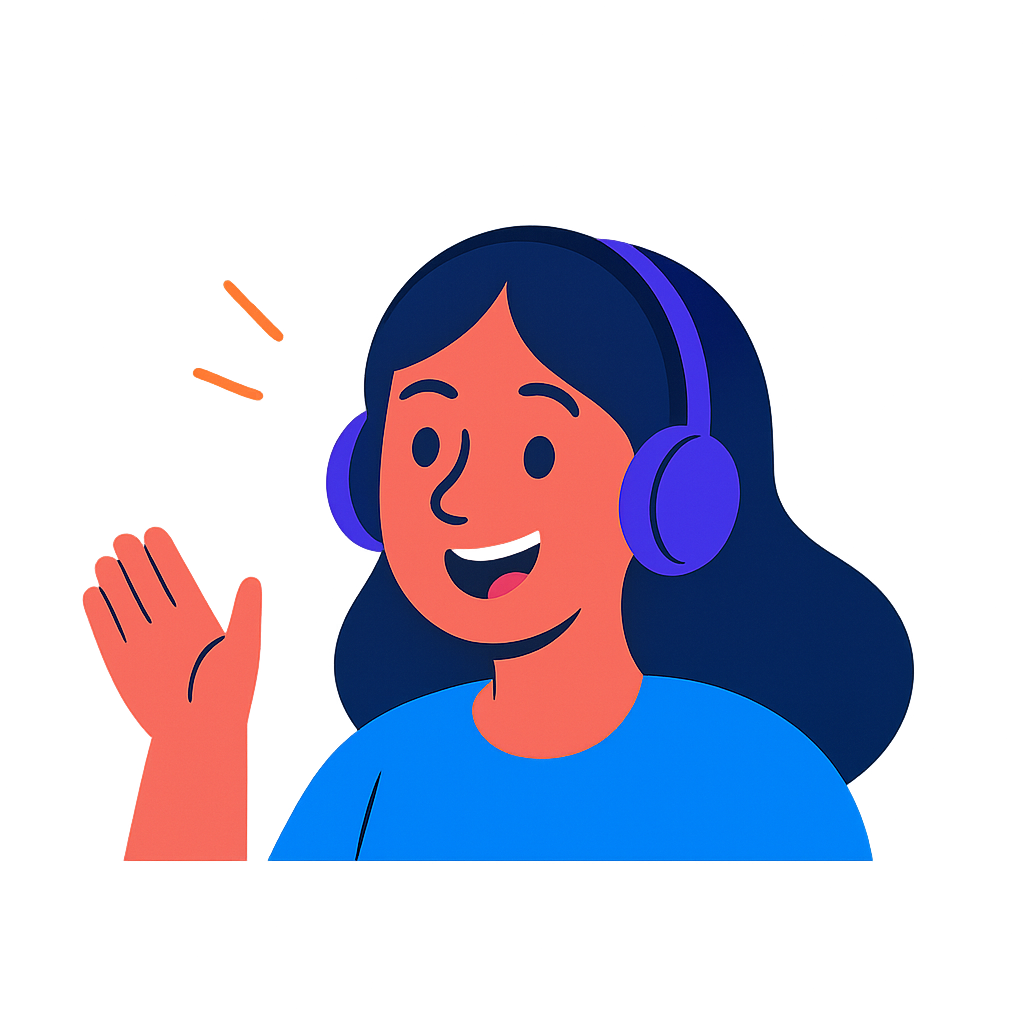
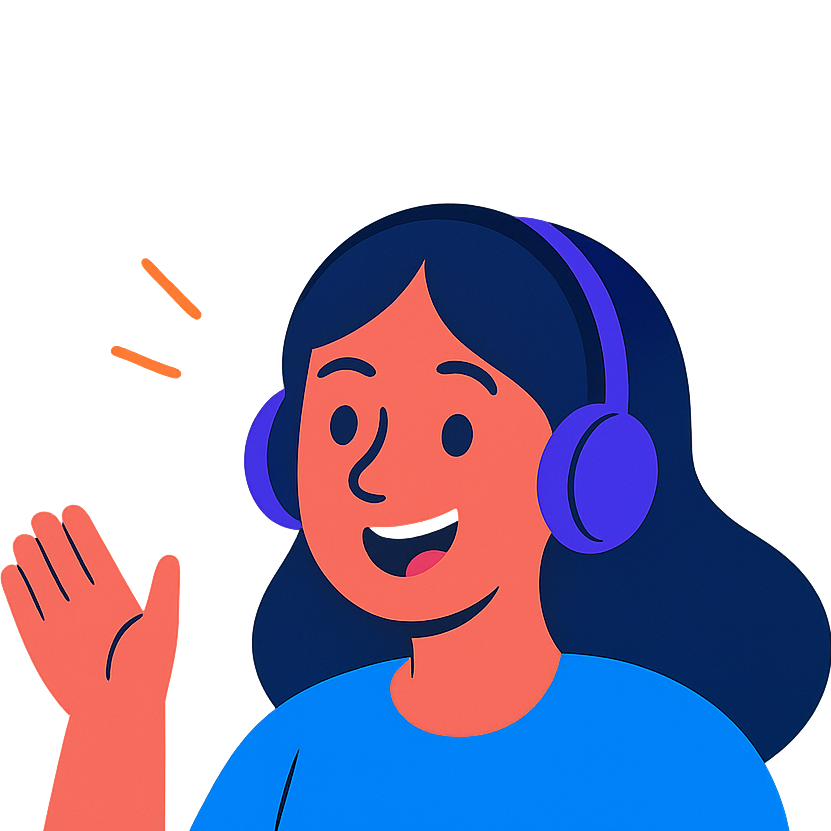
Обновление главной страницы: изменены стили секции героя, добавлены новые разделы с описанием продукта на русском языке, включая преимущества и отзывы пользователей. Исправлены размеры изображений для адаптивного дизайна.

diff --git a/index.html b/index.html
@@ -111,7 +111,7 @@
         /* Hero Section */
         .hero {
             background: linear-gradient(135deg, var(--primary-pink) 0%, var(--primary-blue) 100%);
-            padding: var(--spacing-2xl) var(--spacing-2xl) var(--spacing-3xl) var(--spacing-2xl);
+            padding: var(--spacing-2xl) var(--spacing-2xl) 0 var(--spacing-2xl);
             border-radius: var(--radius-3xl);
             margin-bottom: var(--spacing-2xl);
             color: var(--neutral-white);
@@ -139,7 +139,7 @@
         }
         
         .hero-title {
-            font-size: clamp(3rem, 6vw, 5rem);
+            font-size: clamp(2rem, 4vw, 3rem);
             font-weight: 800;
             line-height: 1.1;
             margin-bottom: var(--spacing-lg);
@@ -167,22 +167,31 @@
         }
         
         .hero-illustration {
-            flex: 0 0 500px;
-            height: 400px;
+            position: absolute;
+            top: 50%;
+            right: var(--spacing-3xl);
+            transform: translateY(-50%);
+            flex: none;
+            width: 450px;
+            height: 360px;
             background: transparent;
             display: flex;
             align-items: flex-end;
             justify-content: center;
-            position: relative;
             overflow: visible;
-            margin-top: var(--spacing-lg);
+            margin: 0;
+            padding: 0;
+            z-index: 2;
         }
         
         .hero-image {
-            width: 450px;
-            height: 360px;
+            width: 100%;
+            height: 100%;
             object-fit: contain;
             object-position: bottom;
+            margin: 0;
+            padding: 0;
+            display: block;
         }
         
         .decorative-waves {
@@ -251,7 +260,7 @@
             display: inline-flex;
             align-items: center;
             gap: var(--spacing-sm);
-            font-size: var(--font-size-h3);
+            font-size: var(--font-size-body);
             font-weight: 700;
             position: absolute;
             top: 0;
@@ -398,6 +407,27 @@
         }
         
         /* Responsive Design */
+        @media (max-width: 900px) {
+            .hero-illustration {
+                width: 320px;
+                height: 220px;
+                right: var(--spacing-xl);
+            }
+        }
+        @media (max-width: 600px) {
+            .hero-illustration {
+                position: static;
+                transform: none;
+                width: 100%;
+                height: auto;
+                margin: 0 auto;
+                justify-content: center;
+            }
+            .hero-image {
+                width: 100%;
+                height: auto;
+            }
+        }
         @media (max-width: 768px) {
             .hero-content {
                 flex-direction: column;
@@ -468,10 +498,11 @@
         <!-- Hero Section -->
         <section class="hero">
             <div class="hero-brand">LingoSwitch</div>
-            <a href="#" class="hero-cta">Get Started</a>
+            <a href="#get-started" class="hero-cta">Get Started</a>
             <div class="hero-content">
                 <div class="hero-text">
-                    <h1 class="hero-title">Learn a New Language Easily</h1>
+                    <h1 class="hero-title">Пополнение словарного запаса без отрыва от работы</h1>
+                    <p class="hero-desc">LingoSwitch интегрируется в привычные Telegram-каналы и плавно заменяет слова на целевом языке, позволяя учить английский на ходу</p>
                 </div>
                 <div class="hero-illustration">
                     <div class="decorative-waves">〰〰</div>
@@ -481,101 +512,90 @@
             </div>
         </section>
 
-        <!-- Main Content Grid -->
-        <div class="grid">
-            <!-- Problem Card -->
-            <div class="card card-problem fade-in">
-                <div class="card-header">
-                    <span class="icon-emoji">😟</span>
-                    Problem
+        <!-- Problem Section -->
+        <section class="card card-problem fade-in">
+            <div class="card-header">
+                <span class="icon-emoji">😟</span>
+                Не хватает времени на учебу?
+            </div>
+            <div class="card-content">
+                <div class="card-title">Ежедневный поток задач и срочных писем оставляет минимум времени на учебу.</div>
+                <p>Традиционные курсы и приложения требуют выделять часы на уроки и отвлекают от работы. Из-за этого новые слова быстро забываются, а уверенность при чтении деловых публикаций на иностранном языке так и не появляется.</p>
+            </div>
+        </section>
+
+        <!-- Solution Section -->
+        <section class="card card-solution fade-in">
+            <div class="card-header">
+                <span class="icon-emoji">💡</span>
+                Учитесь в своем ритме
+            </div>
+            <div class="card-content">
+                <div class="card-title">LingoSwitch превращает каждую статью и новость в Телеграме в интерактивный урок</div>
+                <p>Бот автоматически заменяет часть русских слов на английские, а затем постепенно увеличивает долю «иностранных» фраз. Такой подход обеспечивает запоминание через контекст и ассоциации, без лишних переключений между приложениями.</p>
+            </div>
+        </section>
+
+        <!-- Benefits Section -->
+        <section class="card card-benefits fade-in">
+            <div class="card-header">
+                <span class="icon-emoji">⭐</span>
+                Ваши преимущества
+            </div>
+            <div class="card-content">
+                <ul class="benefits-list">
+                    <li><b>Учиться без лишних усилий</b> — слово попадает в контекст привычного текста, а не в список для зубрёжки</li>
+                    <li><b>Автоматическая замена терминов</b> прямо в сообщениях Telegram</li>
+                    <li><b>Постепенное погружение</b> — доля иностранных слов растет по мере адаптации</li>
+                    <li><b>Гибкие настройки уровня замены</b>: от отдельных слов до целых предложений</li>
+                    <li><b>Усиленная ассоциация</b> — слова запоминаются надолго благодаря окружению</li>
+                    <li><b>Предложения вариантов перевода и мини-тесты</b> прямо в чате</li>
+                    <li><b>Без отвлекающих интерфейсов</b> — всё происходит в привычном мессенджере</li>
+                    <li><b>Интеграция с выбранными каналами и скрапинг новостей</b> (в разработке)</li>
+                </ul>
+            </div>
+        </section>
+
+        <!-- Reviews Section -->
+        <section class="card card-faq fade-in">
+            <div class="card-header">
+                <span class="icon-emoji">💬</span>
+                Отзывы пользователей
+            </div>
+            <div class="card-content">
+                <blockquote>«LingoSwitch сэкономил мне часы на уроках и при этом серьезно пополнил словарный запас — теперь чтение деловых статей на английском не вызывает страха.»<br><span class="review-author">— Иван, финансовый аналитик</span></blockquote>
+                <blockquote>«Сначала сомневался, что смогу учить английский без отвлечения от работы. Но ежедневные «микро-уроки» в Telegram оказались именно тем, что нужно.»<br><span class="review-author">— Мария, менеджер проектов</span></blockquote>
+            </div>
+        </section>
+
+        <!-- FAQ Section -->
+        <section class="card card-faq fade-in">
+            <div class="card-header">
+                <span class="icon-emoji">❓</span>
+                FAQ
+            </div>
+            <div class="faq-columns">
+                <div class="faq-left">
+                    <div class="faq-item">
+                        <div class="faq-question">Как начать пользоваться LingoSwitch?</div>
+                    </div>
+                    <div class="faq-item">
+                        <div class="faq-question">Можно ли задать свой словарь «известных» слов?</div>
+                    </div>
                 </div>
-                <div class="card-content">
-                    <div class="card-title">Struggling with traditional methods?</div>
-                    <div class="card-content-bottom">
-                        <div class="card-title">Struggling with traditional methods?</div>
-                        <span class="icon-emoji">😟</span>
+                <div class="faq-right">
+                    <div class="faq-item">
+                        <div class="faq-question">Будет ли бот сам «сканировать» каналы?</div>
+                    </div>
+                    <div class="faq-item">
+                        <div class="faq-question">Сколько стоит премиум-доступ?</div>
                     </div>
                 </div>
             </div>
-
-            <!-- Solution Card -->
-            <div class="card card-solution fade-in">
-                <div class="card-header">
-                    <span class="icon-emoji">💡</span>
-                    Solution
-                </div>
-                <div class="card-title">Try our innovative approach!</div>
-                <div class="solution-decorative">💡✨</div>
+            <div class="faq-summary" style="margin-top: var(--spacing-lg);">
+                <b>LingoSwitch помогает строить уверенность при чтении и переписке на английском через привычные задачи — без потери времени и мотивации.</b>
             </div>
-
-            <!-- Benefits Card -->
-            <div class="card card-benefits fade-in">
-                <div class="card-header">
-                    <span class="icon-emoji">⭐</span>
-                    Benefits
-                </div>
-                <div class="card-title">Interactive Lessons</div>
-                <div class="feature-icons">
-                    <div class="feature-icon">
-                        <div class="feature-icon-symbol">💬</div>
-                        <div>Interactive Lessons</div>
-                    </div>
-                    <div class="feature-icon">
-                        <div class="feature-icon-symbol">⭐</div>
-                        <div>Personalized Plans</div>
-                    </div>
-                    <div class="feature-icon">
-                        <div class="feature-icon-symbol">💬</div>
-                        <div>24/7 Practice</div>
-                    </div>
-                </div>
-            </div>
-
-            <!-- FAQ Card -->
-            <div class="card card-faq fade-in">
-                <div class="card-header">
-                    <span class="icon-emoji">❓</span>
-                    FAQ
-                </div>
-                
-                <div class="faq-columns">
-                    <div class="faq-left">
-                        <div class="faq-item">
-                            <div class="faq-question">
-                                <span>✅</span>
-                                How do I start?
-                            </div>
-                            <div class="faq-answer">Sign up and choose your language!</div>
-                        </div>
-
-                        <div class="faq-item">
-                            <div class="faq-question">
-                                <span>✅</span>
-                                What languages can I learn?
-                            </div>
-                            <div class="faq-answer">We offer courses in 20+ languages!</div>
-                        </div>
-                    </div>
-
-                    <div class="faq-right">
-                        <div class="faq-item">
-                            <div class="faq-question">How do I start?</div>
-                            <div class="faq-answer">Sign up and choose your language!</div>
-                        </div>
-
-                        <div class="faq-item">
-                            <div class="faq-question">What languages can I learn?</div>
-                            <div class="faq-answer">We offer courses in 20+ languages!</div>
-                        </div>
-
-                        <div class="faq-item">
-                            <div class="faq-question">Is there a free trial?</div>
-                            <div class="faq-answer">Yes, get 7 days free access!</div>
-                        </div>
-                    </div>
-                </div>
-            </div>
-        </div>
+        </section>
 
         <!-- Footer -->
         <footer class="footer">
